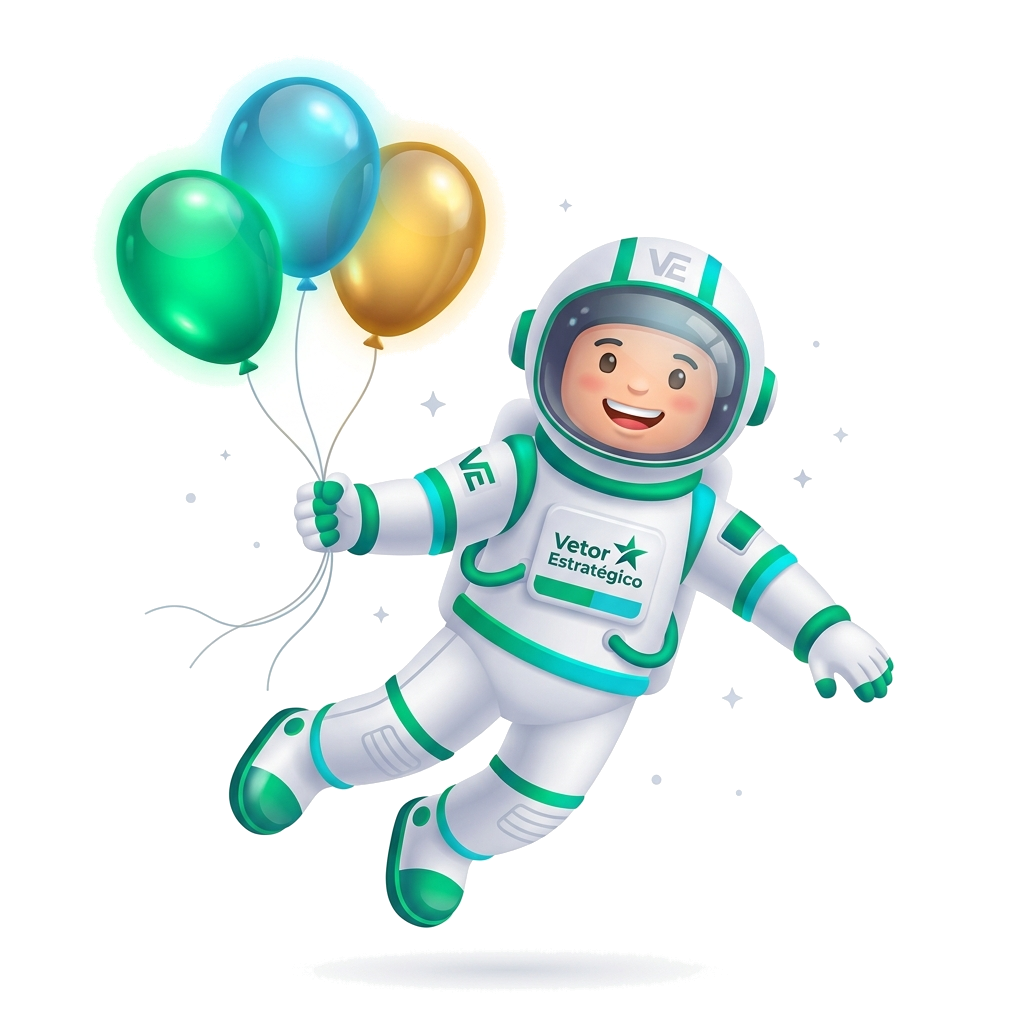
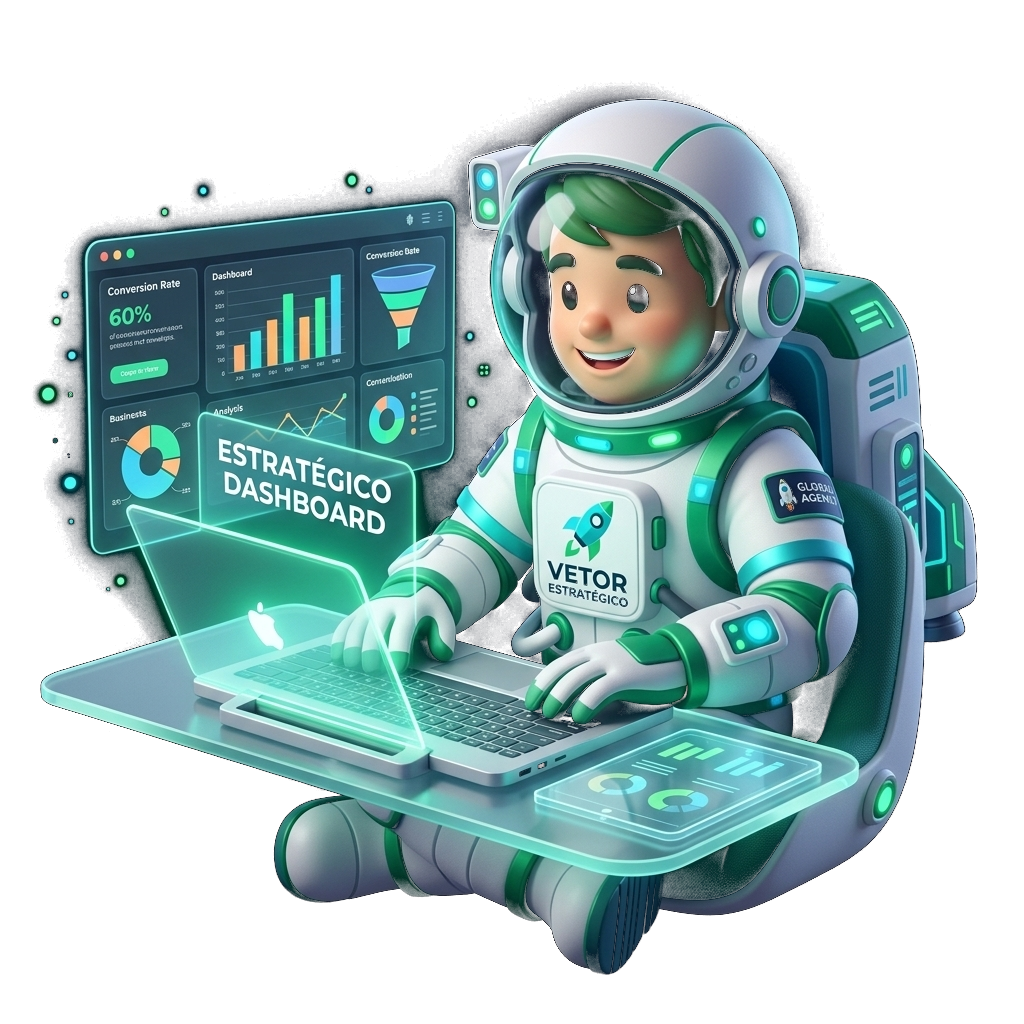
feat: novo desenho do mascote Comandante Vetor programando no computador e tablet

diff --git a/frontend/src/components/sections/TechnicalBenefitsGrid.tsx b/frontend/src/components/sections/TechnicalBenefitsGrid.tsx
@@ -112,15 +112,15 @@ export const TechnicalBenefitsGrid: React.FC = () => {
 
           <div className="relative z-10 grid grid-cols-1 lg:grid-cols-12 gap-12 items-center">
             
-            {/* Left Column: Mascot with Balloons & CTA */}
+            {/* Left Column: Mascot with Laptop/Tablet & CTA */}
             <div className="lg:col-span-5 flex flex-col items-center justify-center text-center space-y-6">
               
               <FloatingElement duration={4.8}>
                 <div className="relative w-72 h-72 sm:w-88 sm:h-88 flex items-center justify-center group cursor-pointer">
-                  <div className="relative w-full h-full drop-shadow-[0_25px_45px_rgba(2,132,199,0.35)] transition-transform duration-500 group-hover:scale-105">
+                  <div className="relative w-full h-full drop-shadow-[0_25px_45px_rgba(16,185,129,0.4)] transition-transform duration-500 group-hover:scale-105">
                     <Image
                       src="/images/mascot/balloons.png"
-                      alt="Soluções Vetor Estratégico"
+                      alt="Comandante Vetor desenvolvendo no Computador"
                       width={352}
                       height={352}
                       className="w-full h-full object-contain"

diff --git a/frontend/src/lib/constants.ts b/frontend/src/lib/constants.ts
@@ -10,7 +10,7 @@ export const COMPANY_INFO = {
   rawPhone: "5511919072390",
   whatsappUrl: "https://wa.me/5511919072390?text=Ol%C3%A1%2C%20gostaria%20de%20solicitar%20uma%20proposta%20comercial%20com%20a%20Vetor%20Estrat%C3%A9gico.",
   location: "São Paulo - SP & Atendimento Online em Todo o Brasil",
-  cnpjPlaceholder: "48.912.304/0001-85",
+  cnpjPlaceholder: "48.912.304/0001-80",
   rating: "5.0",
   satisfactionRate: "Atendimento Personalizado",
   projectsDelivered: "Foco em Qualidade",
